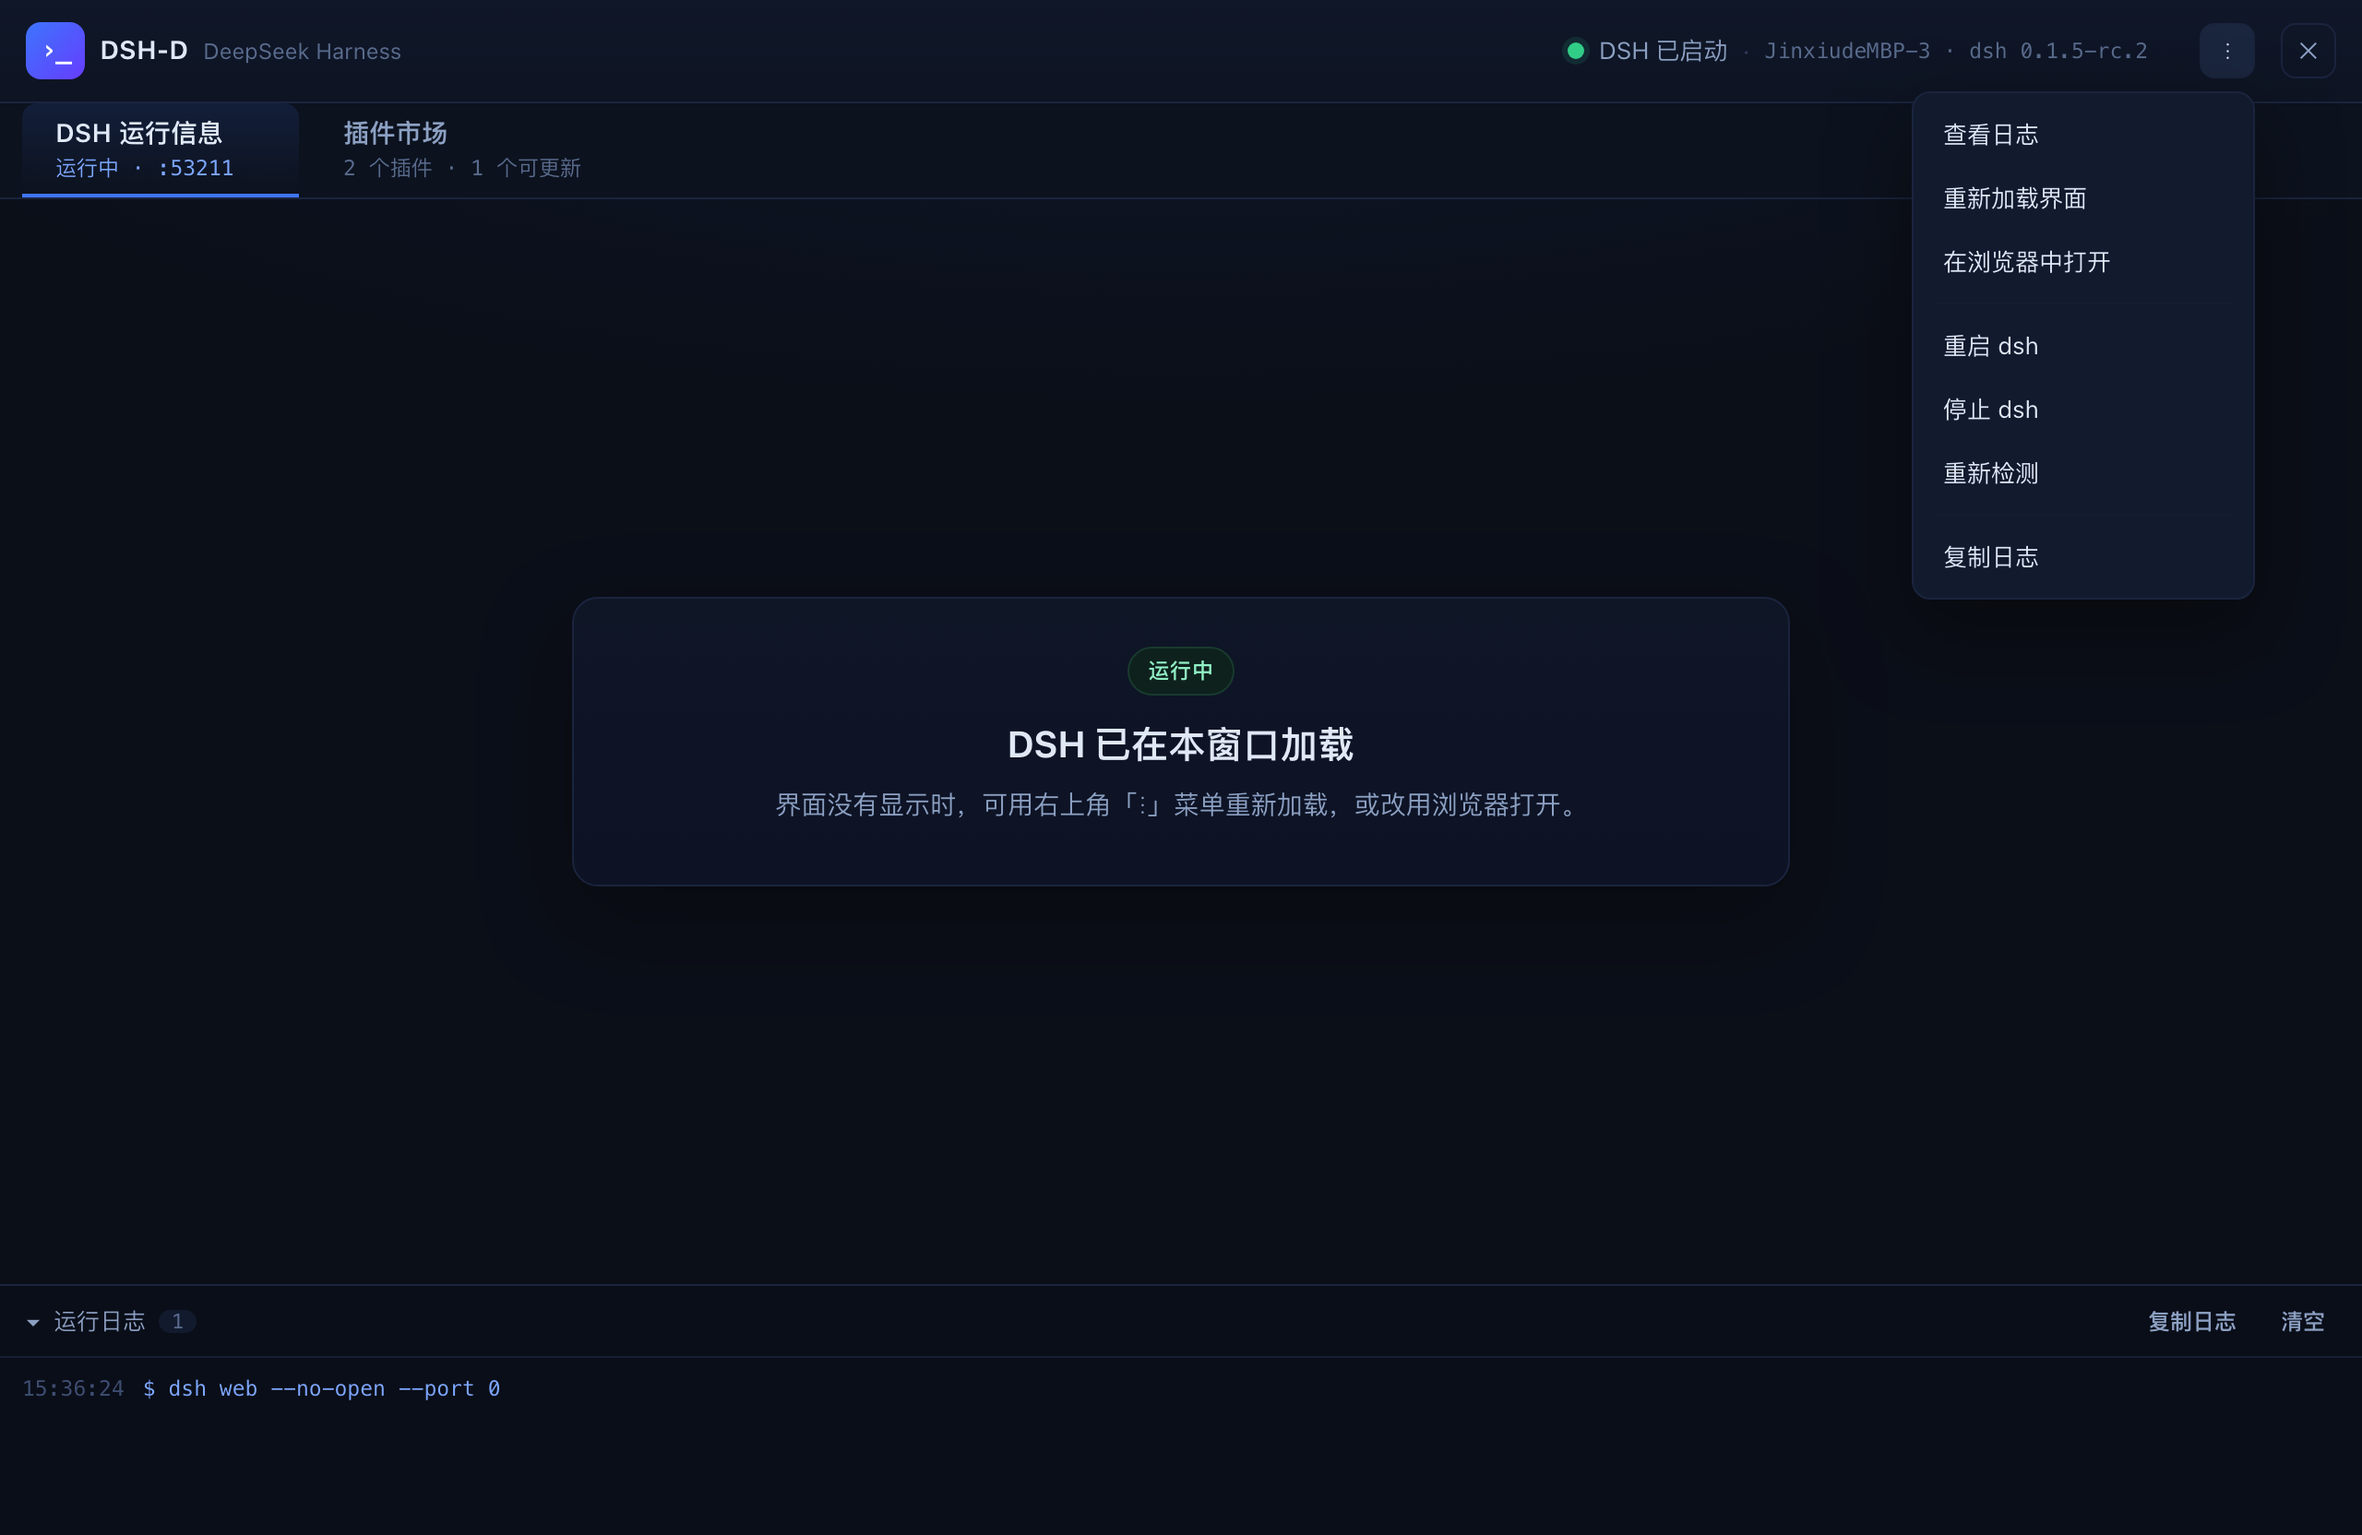
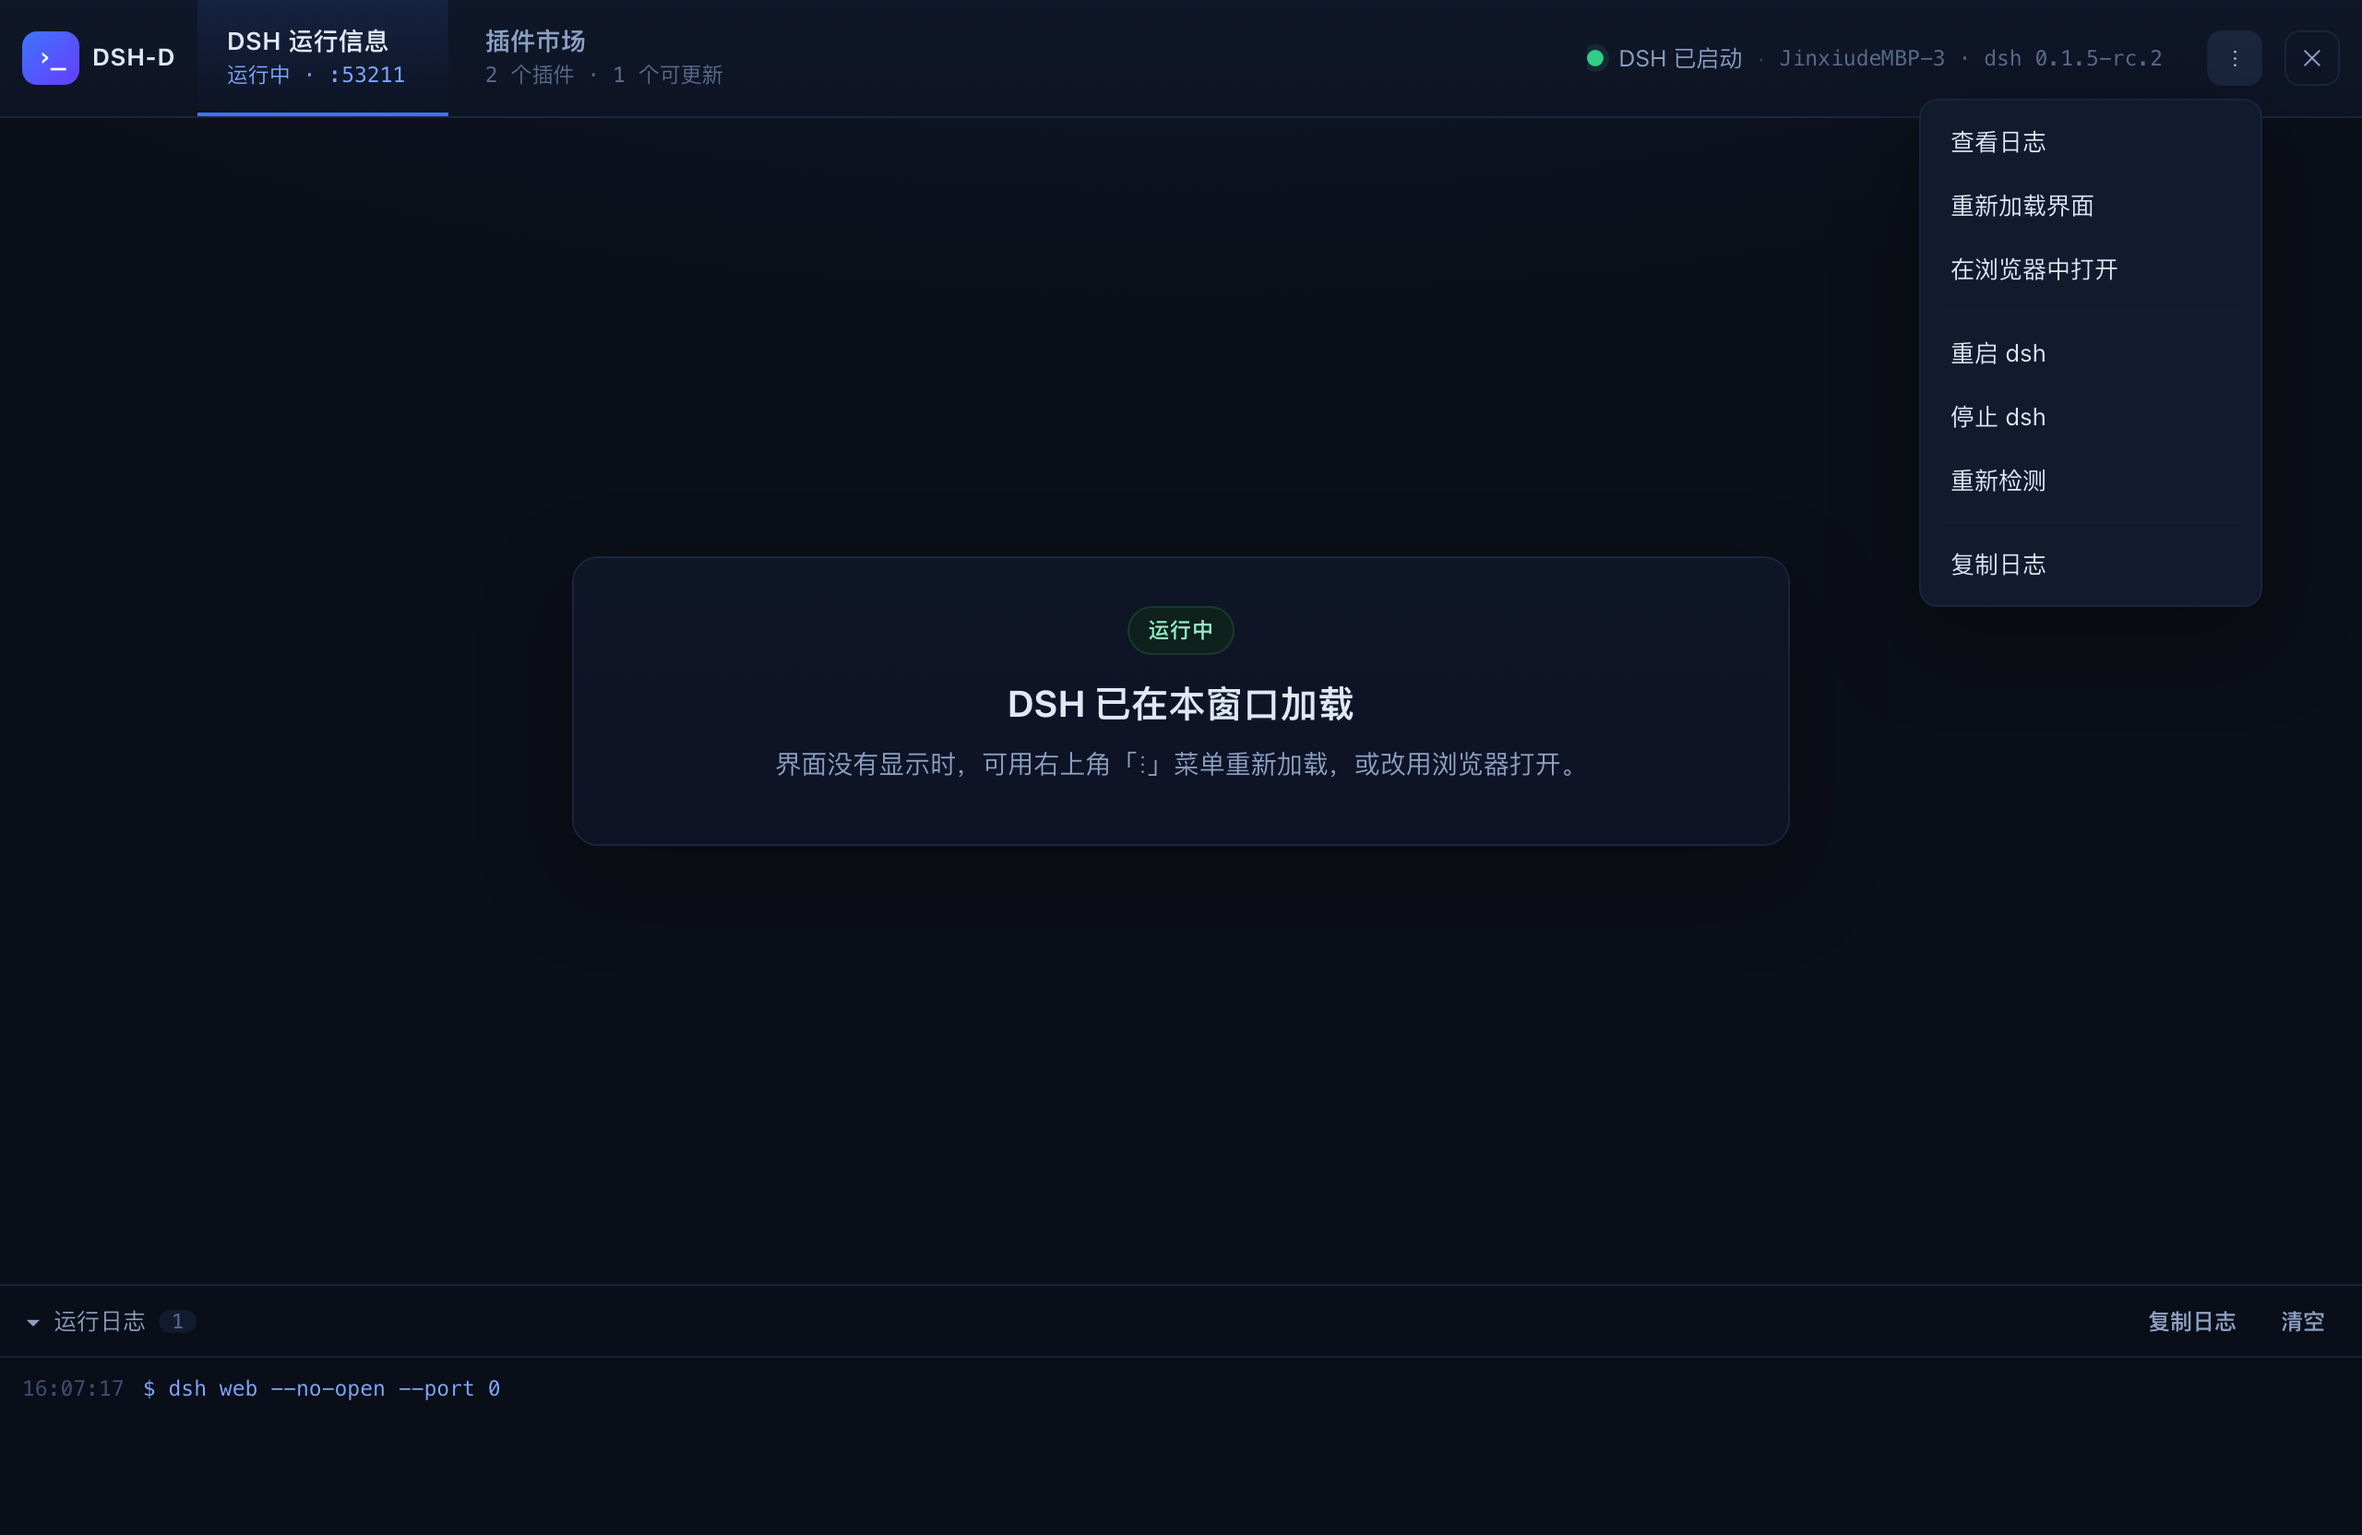
feat(ui): 0.1.4 — 大 tab 并入顶栏同一行
之前 tab 单独占一行（工具栏 + tab 栏共约 108px）。现在品牌、两个大 tab、
状态、主操作、⋮ 菜单与退出按钮都在顶栏一行内完成，顶栏高度 64px，
内嵌的 dsh 界面从顶栏下方开始（inset 只按顶栏计算，此前是工具栏+tab 之和）。

- 品牌收紧为标记 + 名称（去掉副标题），状态文字可收缩省略
- tab 占满顶栏高度，选中态为顶栏底边的强调色下划线
- 其余不变：tab 副标题继续显示 dsh 运行状态/插件统计

自检 39/39、逻辑测试 192/192 通过；界面截图重新生成；
0.1.4 三平台产物已发布到 dsh.textwork.cn 并更新站点页面与 changelog。

diff --git a/src/renderer/styles.css b/src/renderer/styles.css
@@ -53,10 +53,10 @@ body {
 .toolbar {
   display: flex;
   align-items: center;
-  gap: 14px;
-  height: 56px;
-  min-height: 56px;
-  padding: 0 14px;
+  gap: 12px;
+  height: 64px;
+  min-height: 64px;
+  padding: 0 12px;
   background: linear-gradient(180deg, #131f36 0%, #0f1a2e 100%);
   border-bottom: 1px solid var(--border);
 }
@@ -64,14 +64,15 @@ body {
 .brand {
   display: flex;
   align-items: baseline;
-  gap: 8px;
+  gap: 7px;
+  flex: none;
   min-width: 0;
 }
 
 .brand-glyph {
   font-family: var(--mono);
   font-weight: 700;
-  font-size: 15px;
+  font-size: 14px;
   letter-spacing: -1px;
   color: #fff;
   background: linear-gradient(135deg, #4d8dfd, #7c5cff);
@@ -81,6 +82,7 @@ body {
 
 .brand-name {
   font-weight: 650;
+  font-size: 13px;
   letter-spacing: 0.2px;
 }
 
@@ -96,6 +98,7 @@ body {
   gap: 8px;
   margin-left: auto;
   min-width: 0;
+  overflow: hidden;
 }
 
 .status-dot {
@@ -122,10 +125,11 @@ body {
 
 .status-text {
   color: var(--text-dim);
-  font-size: 13px;
+  font-size: 12.5px;
   white-space: nowrap;
   overflow: hidden;
   text-overflow: ellipsis;
+  flex: 0 1 auto;
 }
 
 .status-meta {
@@ -704,12 +708,9 @@ code {
 .tabs {
   display: flex;
   align-items: stretch;
-  gap: 6px;
-  height: 52px;
-  min-height: 52px;
-  padding: 0 12px;
-  background: #0d1728;
-  border-bottom: 1px solid var(--border);
+  gap: 4px;
+  height: 100%;
+  flex: none;
 }
 
 .tab {
@@ -721,11 +722,10 @@ code {
   flex-direction: column;
   justify-content: center;
   gap: 1px;
-  padding: 0 18px;
-  min-width: 150px;
+  padding: 0 16px;
+  min-width: 136px;
   cursor: pointer;
   border-bottom: 2px solid transparent;
-  border-radius: 8px 8px 0 0;
   font-family: inherit;
   text-align: left;
 }
@@ -738,13 +738,18 @@ code {
 .tab.is-active {
   color: var(--text);
   border-bottom-color: var(--accent);
-  background: linear-gradient(180deg, rgba(77, 141, 253, 0.16), rgba(77, 141, 253, 0));
+  background: linear-gradient(180deg, rgba(77, 141, 253, 0.14), rgba(77, 141, 253, 0));
 }
 
 .tab-title {
-  font-size: 14px;
+  font-size: 13.5px;
+}
+
+.tab-title {
+  font-size: 13.5px;
   font-weight: 600;
   letter-spacing: 0.2px;
+  white-space: nowrap;
 }
 
 .tab-sub {
@@ -755,10 +760,6 @@ code {
 
 .tab.is-active .tab-sub {
   color: #8fb8ff;
-}
-
-.tab-fill {
-  flex: 1 1 auto;
 }
 
 /* ------------------------------------------------------------- 插件市场 */

diff --git a/src/renderer/index.html b/src/renderer/index.html
@@ -12,13 +12,23 @@
   </head>
   <body>
     <div class="app">
-      <!-- Shell toolbar: always on screen, the dsh GUI view is placed below it. -->
+      <!-- 顶栏：品牌 + 大 tab 导航 + 状态 + 操作，同一行内完成 -->
       <header class="toolbar" id="toolbar">
         <div class="brand">
           <span class="brand-glyph" aria-hidden="true">&rsaquo;_</span>
           <span class="brand-name">DSH-D</span>
-          <span class="brand-sub">DeepSeek Harness</span>
         </div>
+
+        <nav class="tabs" id="tabs" role="tablist" aria-label="主导航">
+          <button class="tab is-active" id="tab-dsh" data-tab="dsh" role="tab" aria-selected="true" title="运行中的 DSH Web 界面">
+            <span class="tab-title">DSH 运行信息</span>
+            <span class="tab-sub" id="tabDshSub">未启动</span>
+          </button>
+          <button class="tab" id="tab-market" data-tab="market" role="tab" aria-selected="false" title="外壳自带的插件市场">
+            <span class="tab-title">插件市场</span>
+            <span class="tab-sub" id="tabMarketSub">未加载</span>
+          </button>
+        </nav>
 
         <div class="status" id="status">
           <span class="status-dot" id="statusDot"></span>
@@ -46,19 +56,6 @@
 
         <button class="icon-btn" id="quitBtn" title="退出应用" aria-label="退出应用">✕</button>
       </header>
-
-      <!-- 顶部大 tab：主 tab 展示运行中的 dsh Web，另一个是外壳自己的插件市场 -->
-      <nav class="tabs" id="tabs" role="tablist" aria-label="主导航">
-        <button class="tab is-active" id="tab-dsh" data-tab="dsh" role="tab" aria-selected="true">
-          <span class="tab-title">DSH 运行信息</span>
-          <span class="tab-sub" id="tabDshSub">未启动</span>
-        </button>
-        <button class="tab" id="tab-market" data-tab="market" role="tab" aria-selected="false">
-          <span class="tab-title">插件市场</span>
-          <span class="tab-sub" id="tabMarketSub">未加载</span>
-        </button>
-        <span class="tab-fill"></span>
-      </nav>
 
       <main class="stage" id="stage">
         <!-- 1. 检测中 -->

diff --git a/src/renderer/app.js b/src/renderer/app.js
@@ -840,9 +840,9 @@ el.logToggle.addEventListener('click', () => {
 
 // Keep the embedded GUI view aligned with our own toolbar height.
 function reportInset() {
-  const toolbar = el.toolbar.getBoundingClientRect().height;
-  const tabs = el.tabs.getBoundingClientRect().height;
-  const height = Math.round(toolbar + tabs);
+  // The tabs live inside the top bar now, so the embedded view starts right
+  // below that single row.
+  const height = Math.round(el.toolbar.getBoundingClientRect().height);
   if (height > 0) api.setViewInset({ top: height });
 }
 

diff --git a/README.md b/README.md
@@ -12,6 +12,8 @@
 
 ### 顶部大 tab
 
+两个大 tab 与品牌、状态、操作同在**顶栏一行内**（不另起一行）；内嵌的 dsh 界面从顶栏下方开始。
+
 | tab | 内容 |
 | --- | --- |
 | **DSH 运行信息** | 运行中的 dsh Web 界面（内嵌 `WebContentsView`）；未就绪时显示检测/安装/启动各阶段面板 |
